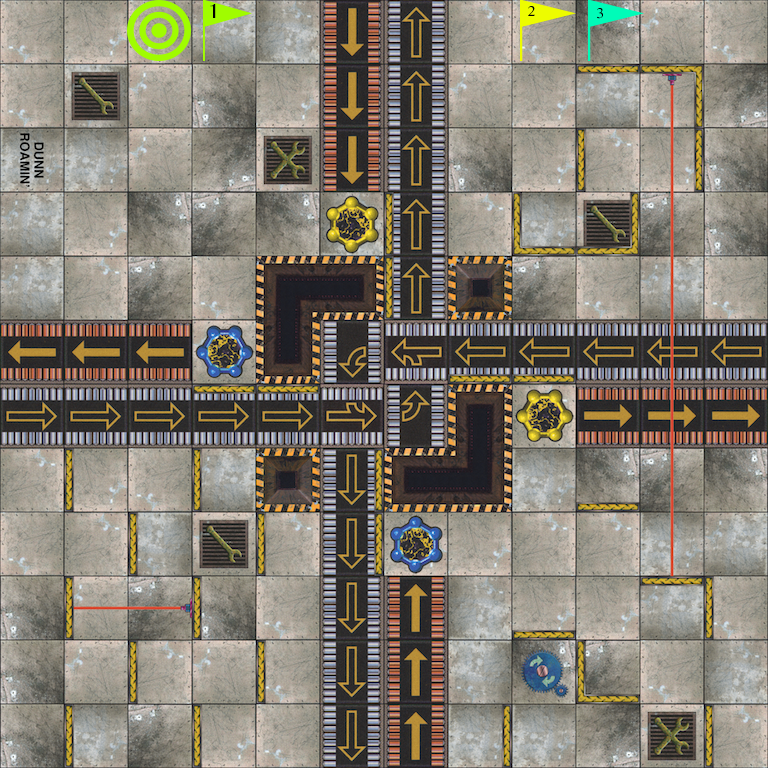
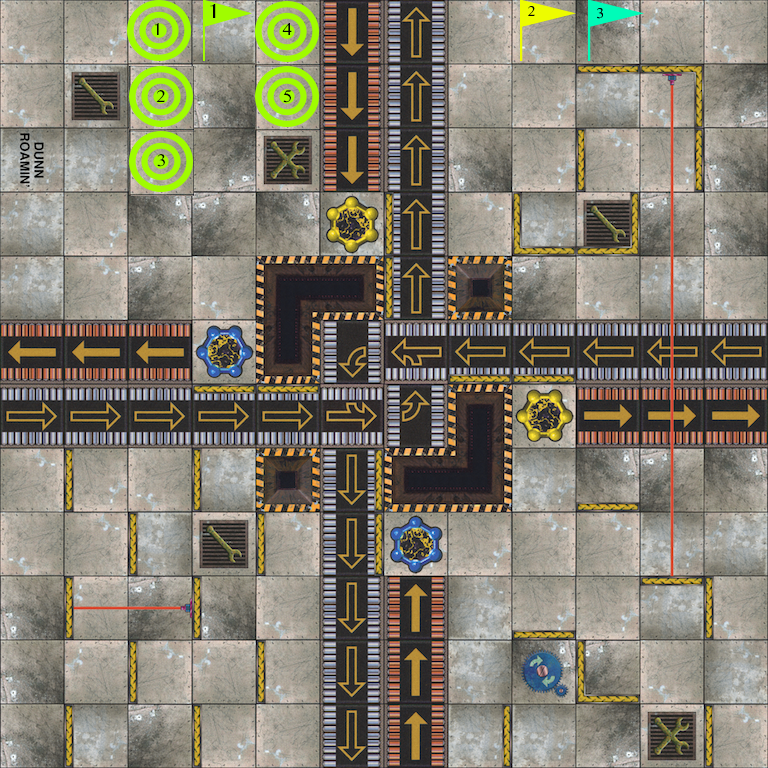
Added 5 different dockings with ID

Changed region(s): [[0.3125, 0.0, 0.4375, 0.1875], [0.1562, 0.0625, 0.25, 0.2812]]

diff --git a/src/main/java/inf112/skeleton/app/Helpers/TileIDTranslator.java b/src/main/java/inf112/skeleton/app/Helpers/TileIDTranslator.java
@@ -11,8 +11,12 @@ public class TileIDTranslator {
 
     static {
         translator.put(145, new Floor());
-        translator.put(160, new DockArea());
+        translator.put(277, new DockArea());
         translator.put(147, new Dock(1));
+        translator.put(159, new Dock(2));
+        translator.put(171, new Dock(3));
+        translator.put(149, new Dock(4));
+        translator.put(161, new Dock(5));
 
         translator.put(148, new Flag(1));
         translator.put(153, new Flag(2));
